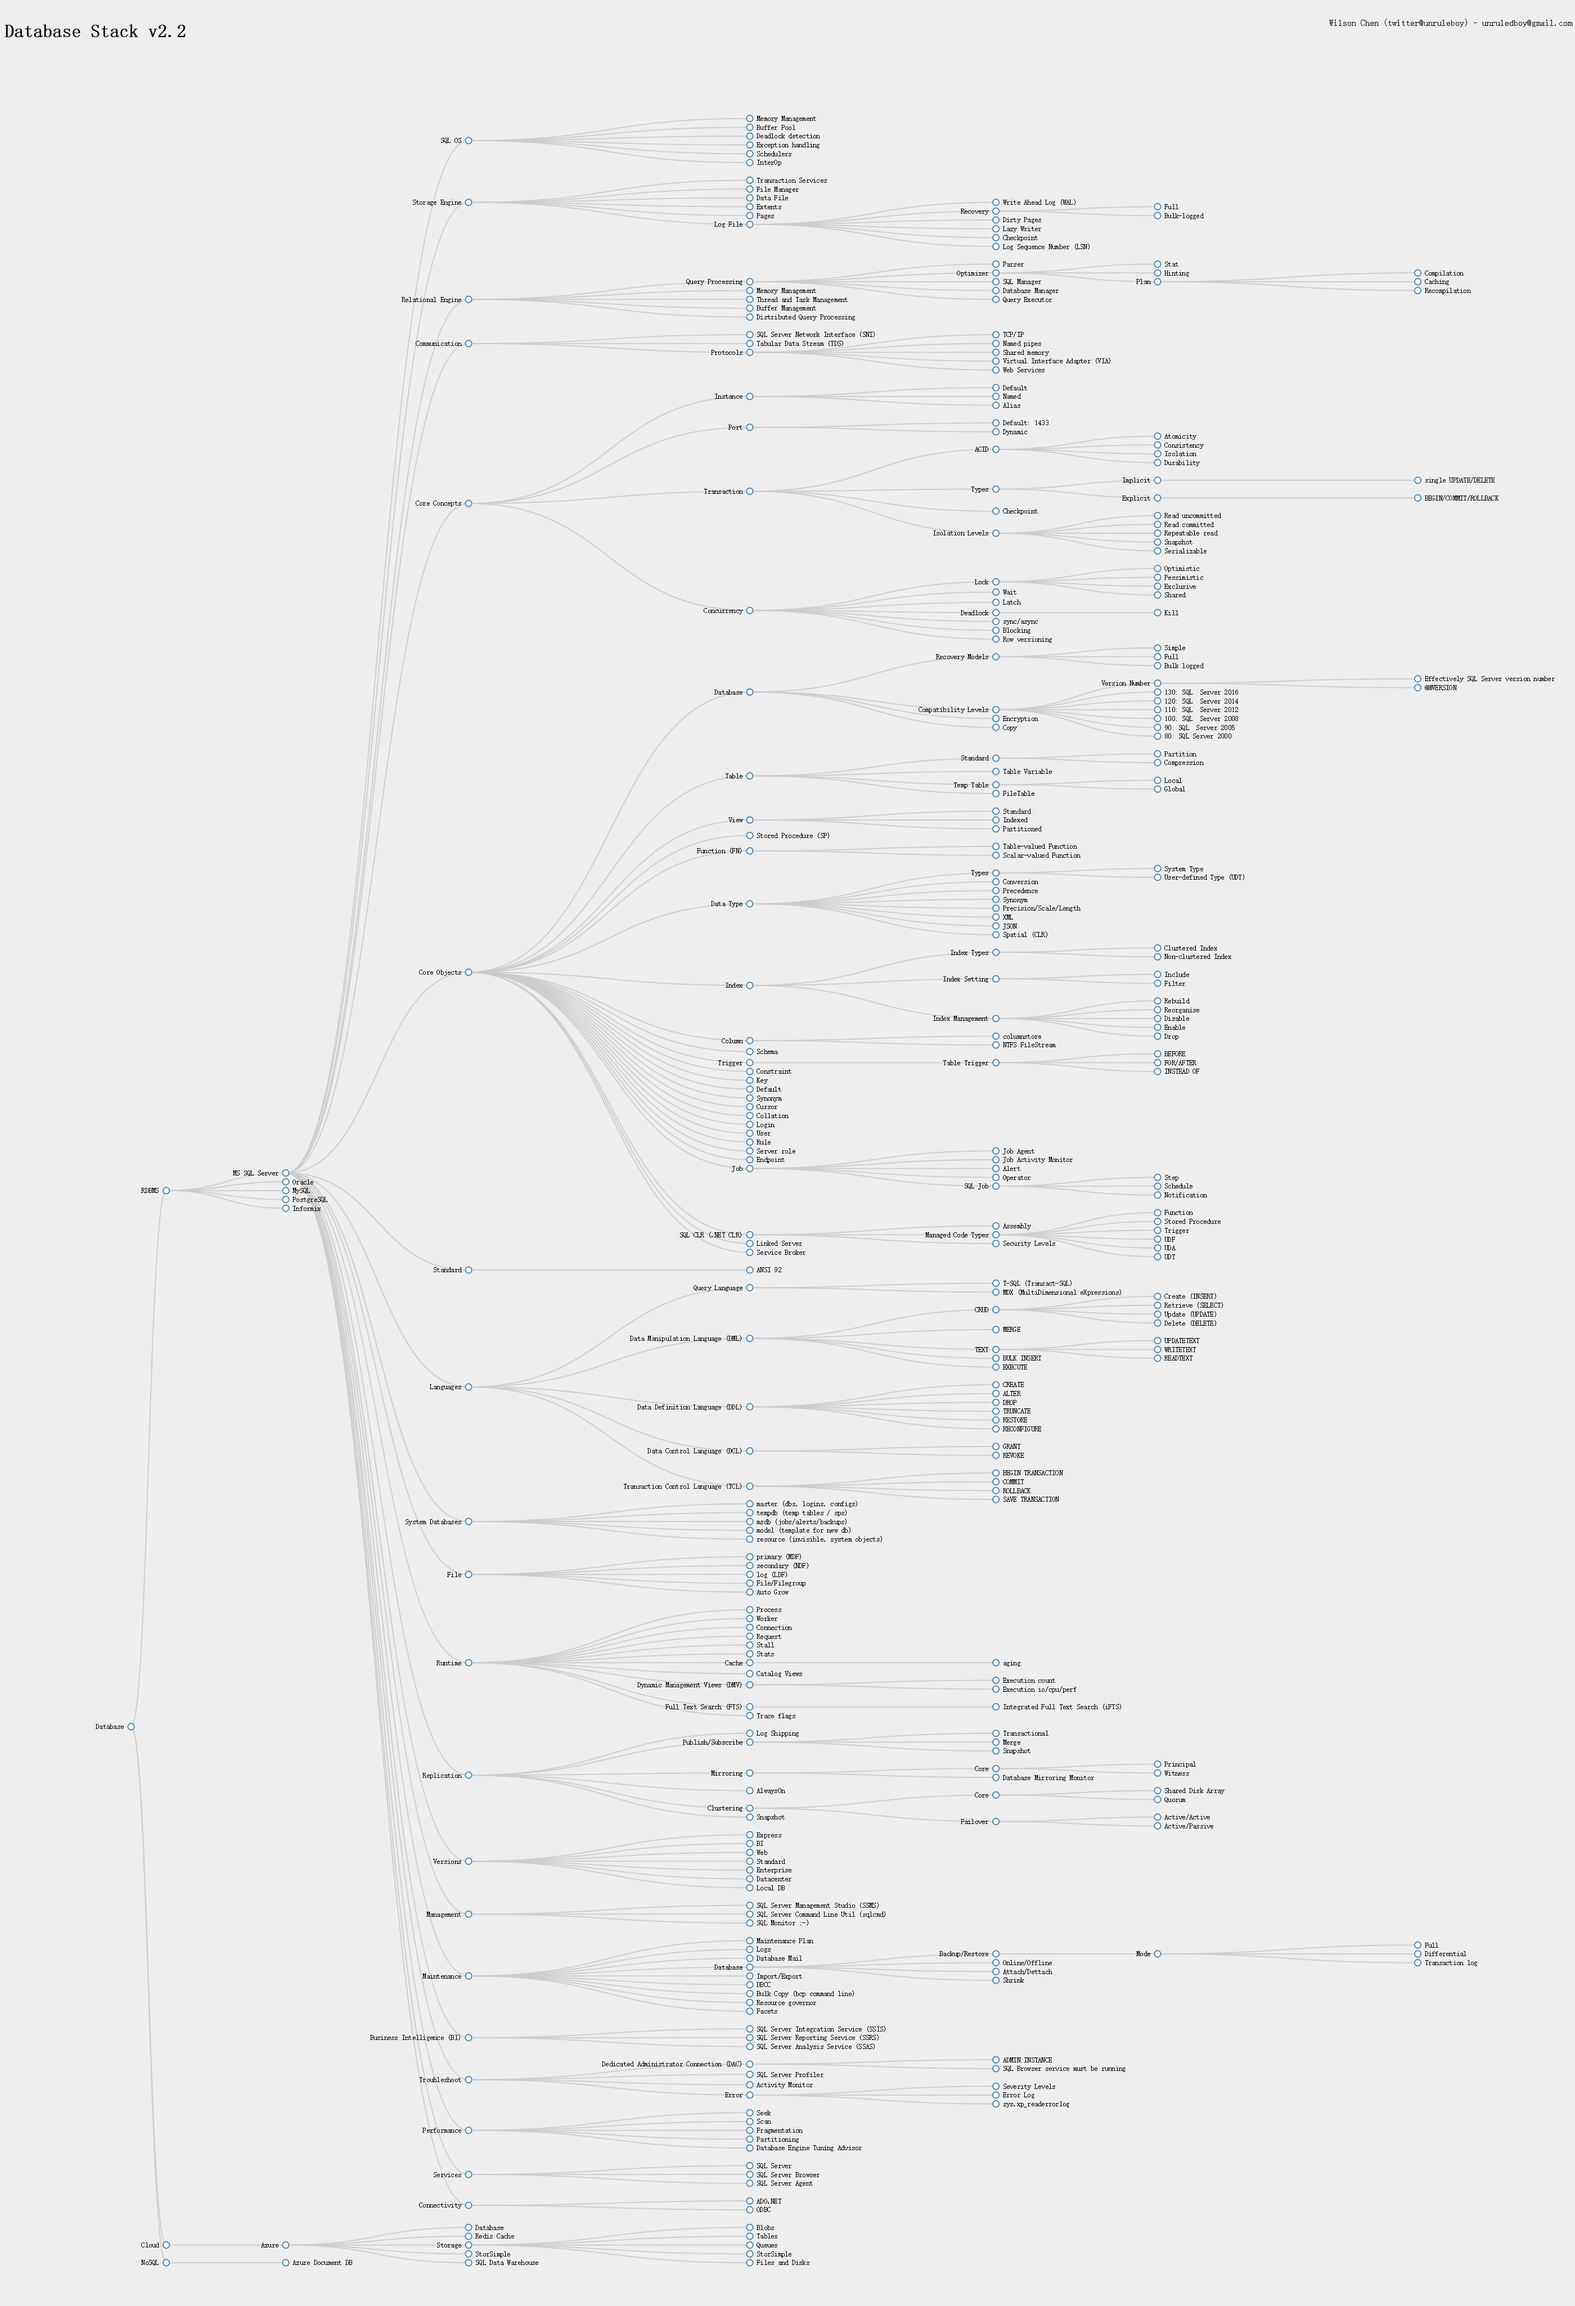
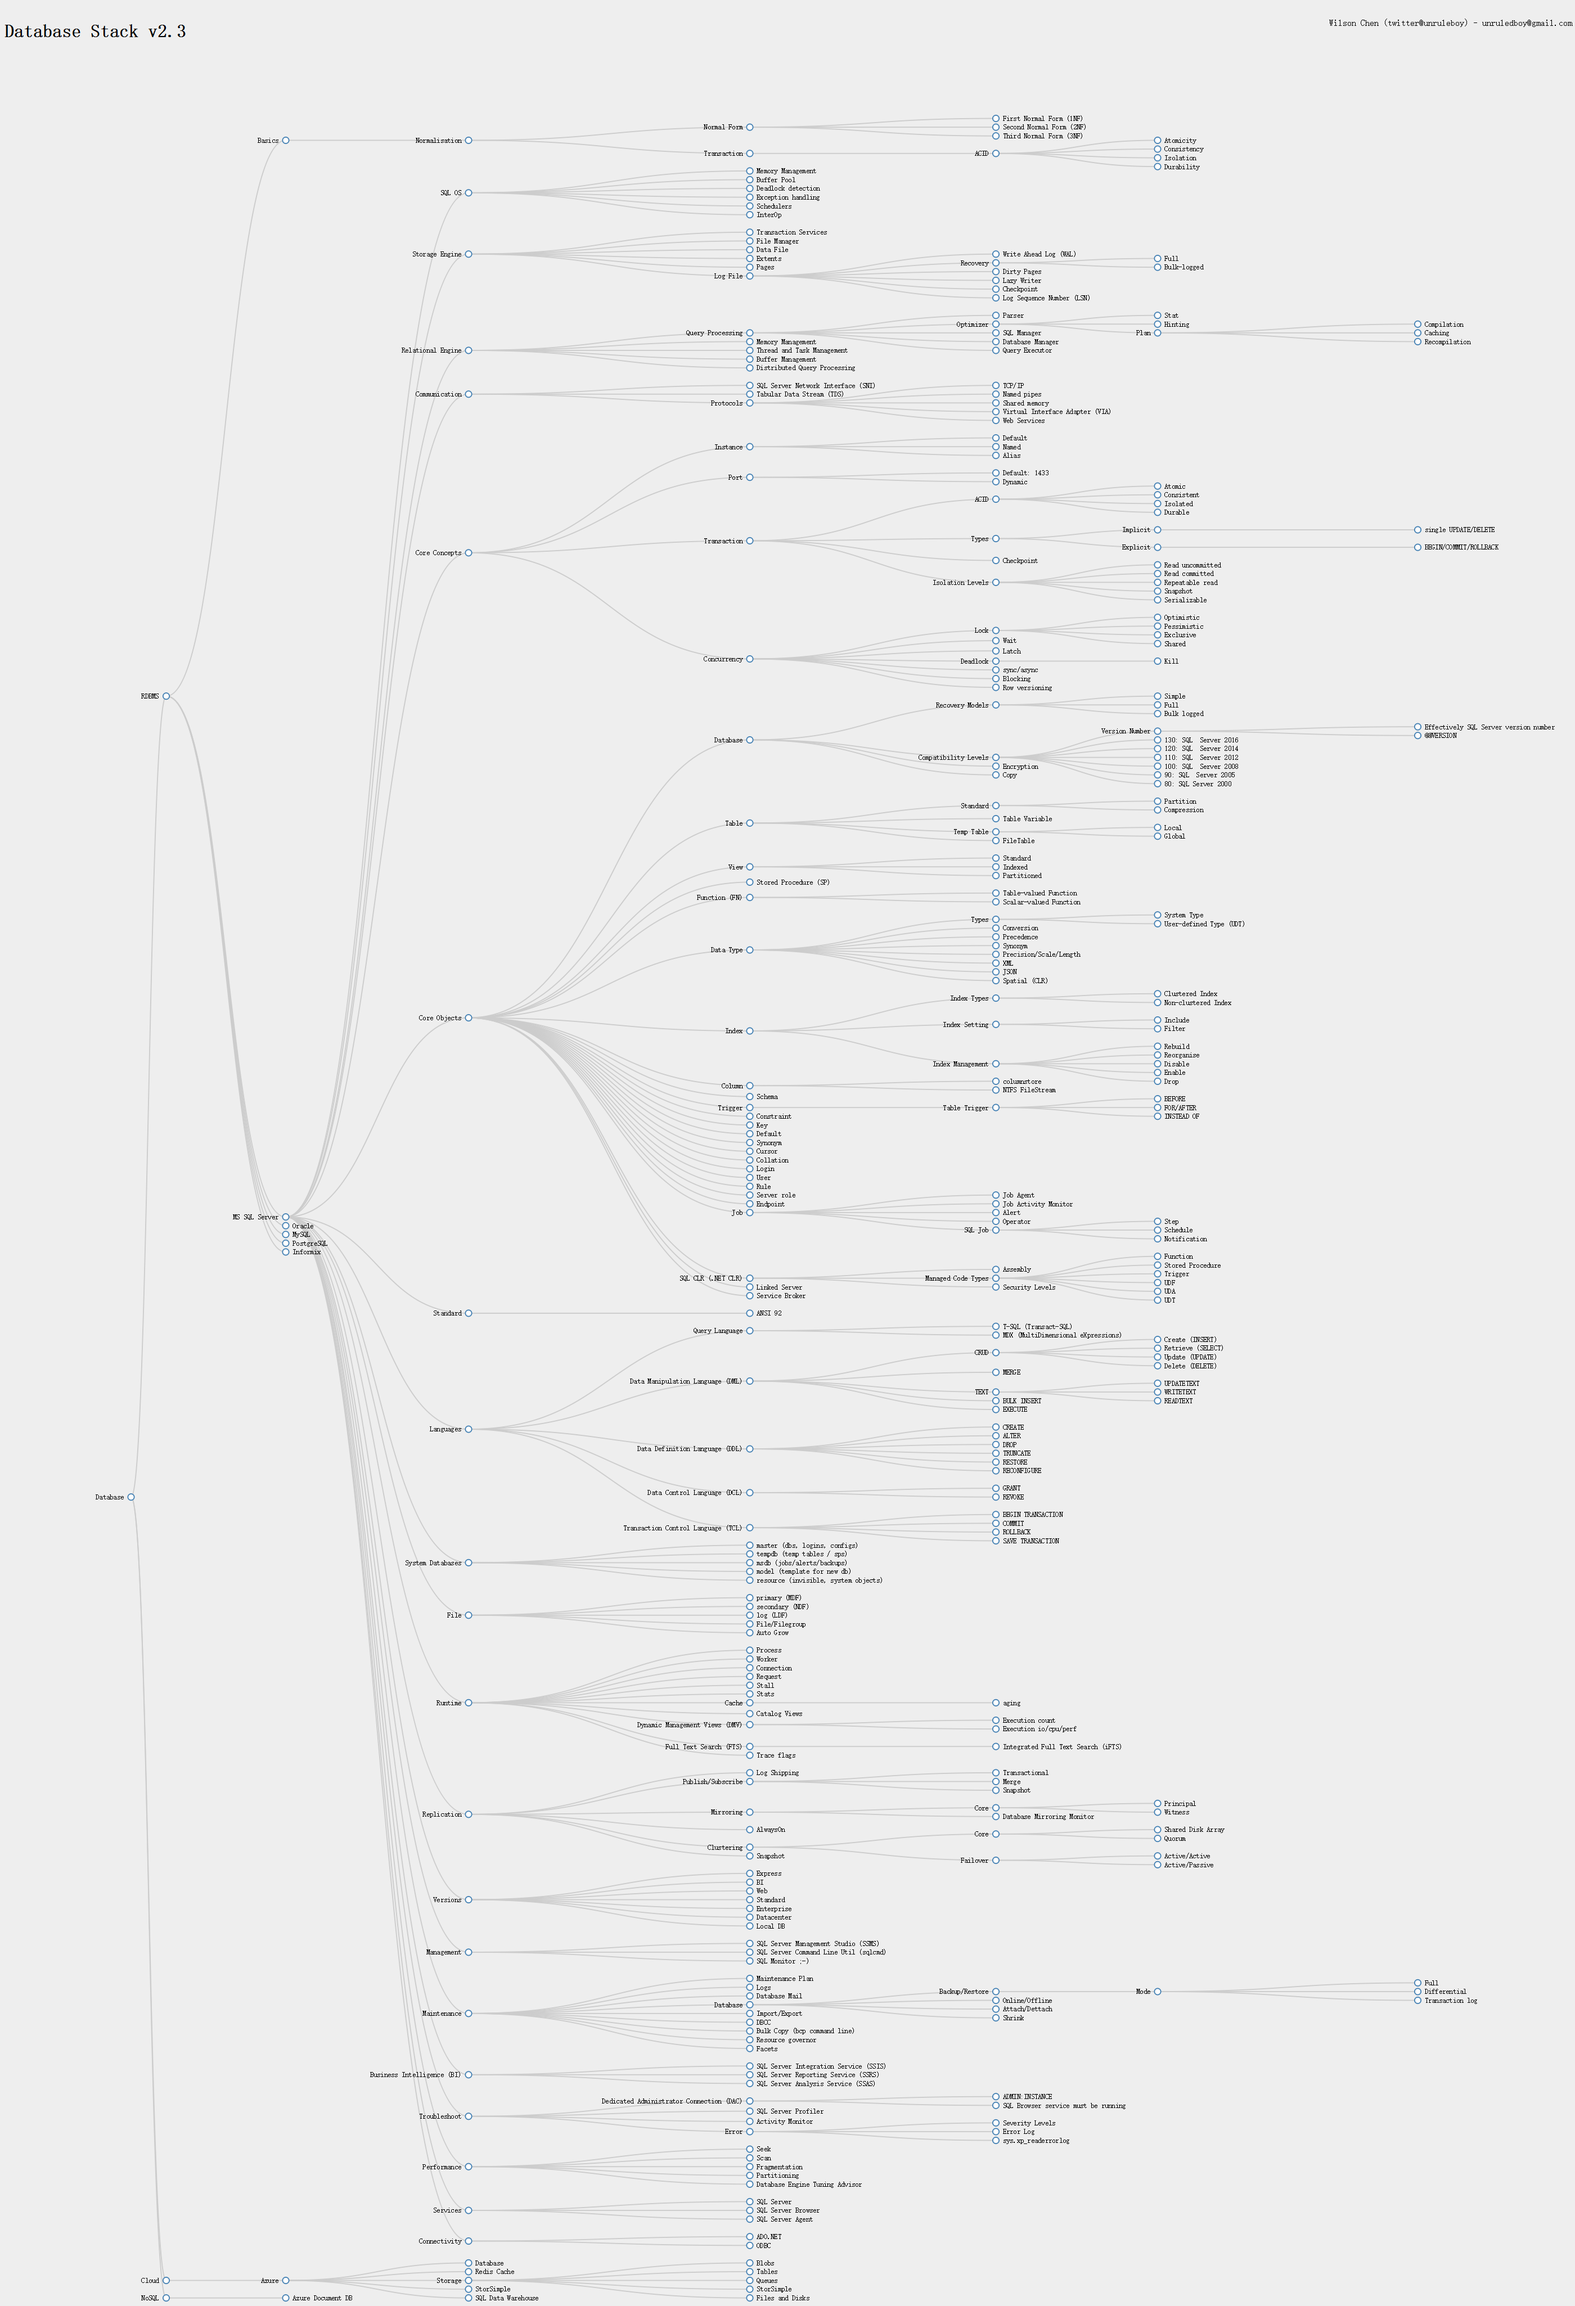
v2.3
added normal form

diff --git a/ux/DatabaseStack.htm b/ux/DatabaseStack.htm
@@ -92,7 +92,7 @@
 <div class="container">
     <header>
         <div class="left">
-            <h1><a href="https://github.com/unruledboy/DatabaseStack" target="_blank">Database Stack v2.2</a></h1>
+            <h1><a href="https://github.com/unruledboy/DatabaseStack" target="_blank">Database Stack v2.3</a></h1>
         </div>
         <div class="right">
             <p><a href="http://github.com/unruledboy">Wilson Chen (twitter@unruleboy) - unruledboy@gmail.com</a></p>

diff --git a/README.md b/README.md
@@ -33,6 +33,18 @@ https://rawgit.com/unruledboy/DatabaseStack/master/ux/DatabaseStack.htm
 
 - Database
 	- RDBMS
+		- Basics
+			- Normalisation
+				- Normal Form
+					- First Normal Form (1NF)
+					- Second Normal Form (2NF)
+					- Third Normal Form (3NF)
+				- Transaction
+					- ACID
+						- Atomicity
+						- Consistency
+						- Isolation
+						- Durability
 		- MS SQL Server
 			- SQL OS
 				- Memory Management
@@ -92,10 +104,10 @@ https://rawgit.com/unruledboy/DatabaseStack/master/ux/DatabaseStack.htm
 					- Dynamic
 				- Transaction
 					- ACID
-						- Atomicity
-						- Consistency
-						- Isolation
-						- Durability
+						- Atomic
+						- Consistent
+						- Isolated
+						- Durable
 					- Types
 						- Implicit
 							- single UPDATE/DELETE
